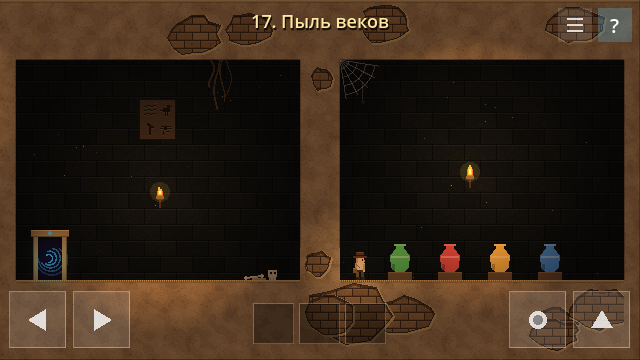
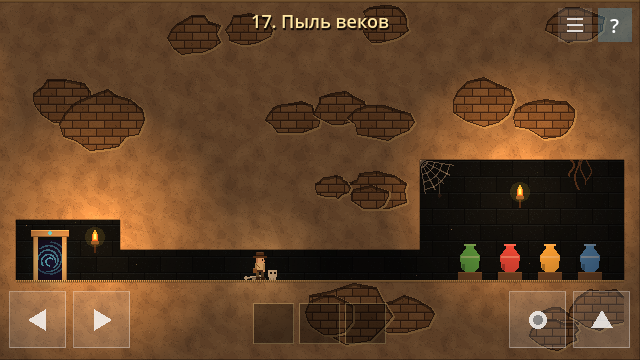
Level 17: second room is solid brickwork with a narrow passage from the portal niche to the vessels
Claude-Session: https://claude.ai/code/session_01Grf5WdcuQYwuX1MMBXvSiC

diff --git a/docs/levels-pyramid.md b/docs/levels-pyramid.md
@@ -45,7 +45,7 @@ _Первая версия игры: все 34 уровня. Обновлено:
 | 14 | «Толкай» | физика: каменный блок | герой начинает на высоком уступе слева и сам сталкивает с него камень, затем спрыгивает. В стене уступа высоко над полом потайной ход: с пола не допрыгнуть. Герой подталкивает камень к уступу, залезает на него и прыгает в стену — открывается тайник внутри уступа, там ключ. Ключ открывает дверь справа |
 | 15 | «Рука помощи» | рука переносит героя | посередине зала бездонный обрыв шире прыжка, обходного пути нет. Героя можно взять пальцем и перетащить (подсказок на экране нет, только в «?»), сквозь камень он не проходит. Отпустил над обрывом — падение и начало заново. Зал украшен: паутина в углах, корни из потолка, кости прежнего искателя у края, кувшины, иероглифы и факелы |
 | 16 | «Солнечный зайчик» | луч и поворотные зеркала (рука) | из щели в левой стене бьёт луч. Четыре зеркала на цепях; касание пальцем поворачивает зеркало на 22,5°, поэтому луч уходит и наискосок. Верный путь: наискосок вверх, прямо вниз, наискосок вверх-влево и вправо на солнце; луч трижды пересекает сам себя. Солнце загорается, дверь открывается. Платформ нет |
-| 17 | «Пыль веков» | кодовый замок, подсказки в двух местах, портал | внизу у стены каменное табло из 4 цифр, каждая листается касанием (0–9). На стенах зала 4 цветные цифры (красная 7, синяя 2, зелёная 5, жёлтая 9) засыпаны пылью: их стирают пальцем. По платформам наверх к двери-порталу, она ведёт в другую комнату (камень другого оттенка). Там узкий потайной проход у пола в стене, за ним 4 сосуда: зелёный, красный, жёлтый, синий — порядок цифр. Код 5792 открывает дверь выхода в главном зале. Обратно — через портал у входа во вторую комнату |
+| 17 | «Пыль веков» | кодовый замок, подсказки в двух местах, портал | внизу у стены каменное табло из 4 цифр, каждая листается касанием (0–9). На стенах зала 4 цветные цифры (красная 7, синяя 2, зелёная 5, жёлтая 9) засыпаны пылью: их стирают пальцем. По платформам наверх к двери-порталу, она ведёт в другую комнату (камень другого оттенка): вокруг сплошная кладка, из ниши с порталом узкий проход в рост героя ведёт в комнату, где 4 сосуда: зелёный, красный, жёлтый, синий — порядок цифр. Код 5792 открывает дверь выхода в главном зале. Обратно — через портал у входа во вторую комнату |
 | 18 | «Тяжесть» | нажимная плита | ящик, поставленный на плиту, держит дверь открытой |
 | 19 | «Где-то там» | событие вдали (с показом) | кнопка открывает дверь в другом зале, камера показывает её |
 | 20 | «Слушай» | событие вдали (только звук) | после нажатия слышен скрежет, дверь нужно найти самому |
